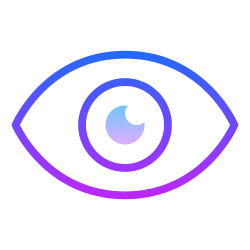
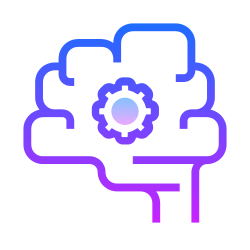
update hero description and services

Changed region(s): [[0.028, 0.084, 0.952, 0.896]]

diff --git a/src/components/Hero.jsx b/src/components/Hero.jsx
@@ -19,9 +19,9 @@ const Hero = () => {
               <span className='text-[#4093ff]'>Charith</span>
             </h1>
             <p className={`${styles.heroSubText} mt-2 text-white-100`}>
-              I am a Data Science Enthusiast,
+              I am a Software Engieering Enthusiast,
               <br className='sm:block-hidden' />
-              Interested in AI/ML,<br /> and AR/VR/XR,<br className='sm:block-hidden' />also in Web/Desktop App development.
+              Interested in React/ .NET,<br /> and Desktop App Development,<br className='sm:block-hidden' />also in AI/ML.
             </p>
           </div>
           

diff --git a/src/constants/index.js b/src/constants/index.js
@@ -64,20 +64,20 @@ import {
   
   const services = [
     {
-      title: "AI/ML Engineering",
+      title: "Web Development",
+      icon: creator,
+    },
+    {
+      title: "Desktop App Development",
       icon: web,
     },
     {
-      title: "Computer Vision",
-      icon: mobile,
-    },
-    {
-      title: "Data Science",
+      title: "SQL/NoSQL Databases",
       icon: backend,
     },
     {
-      title: "Web/Desktop App Development",
-      icon: creator,
+      title: "AI/ML Engineering",
+      icon: mobile,
     },
   ];
   
